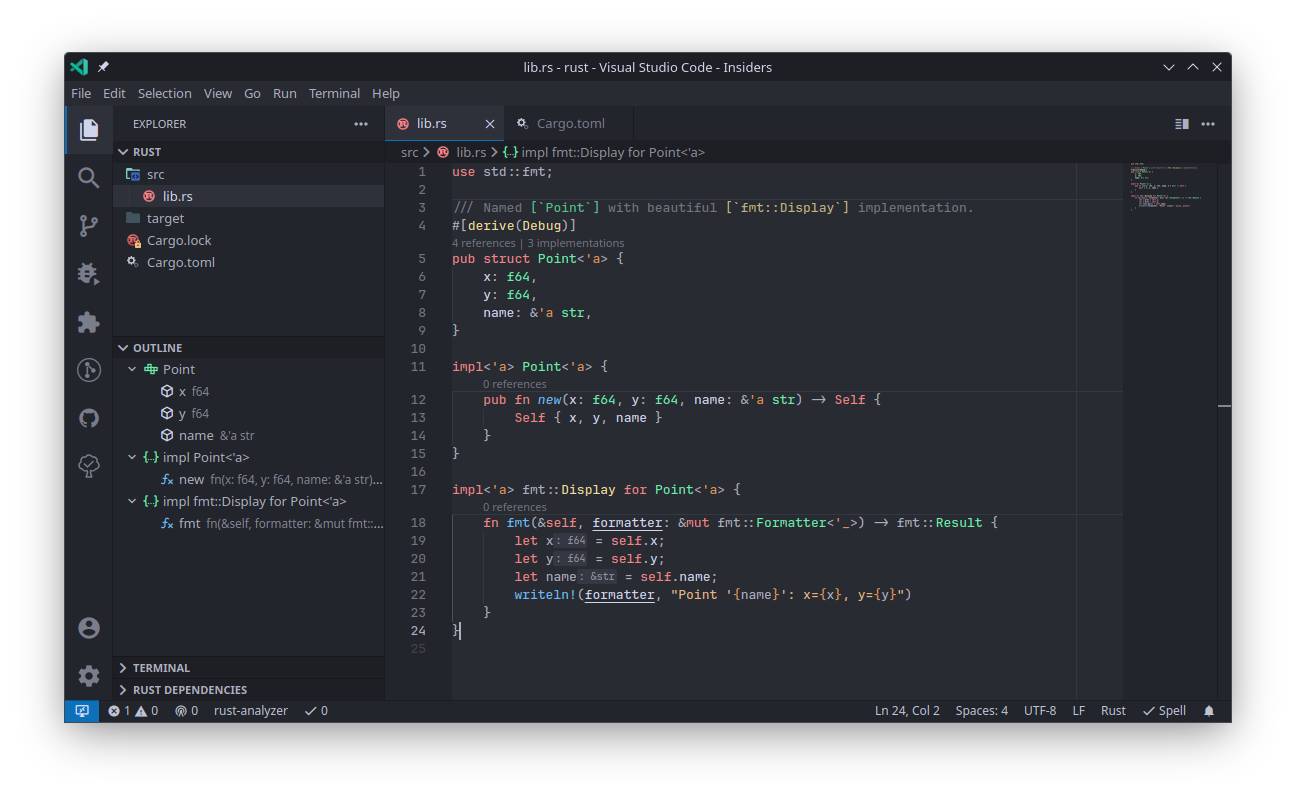
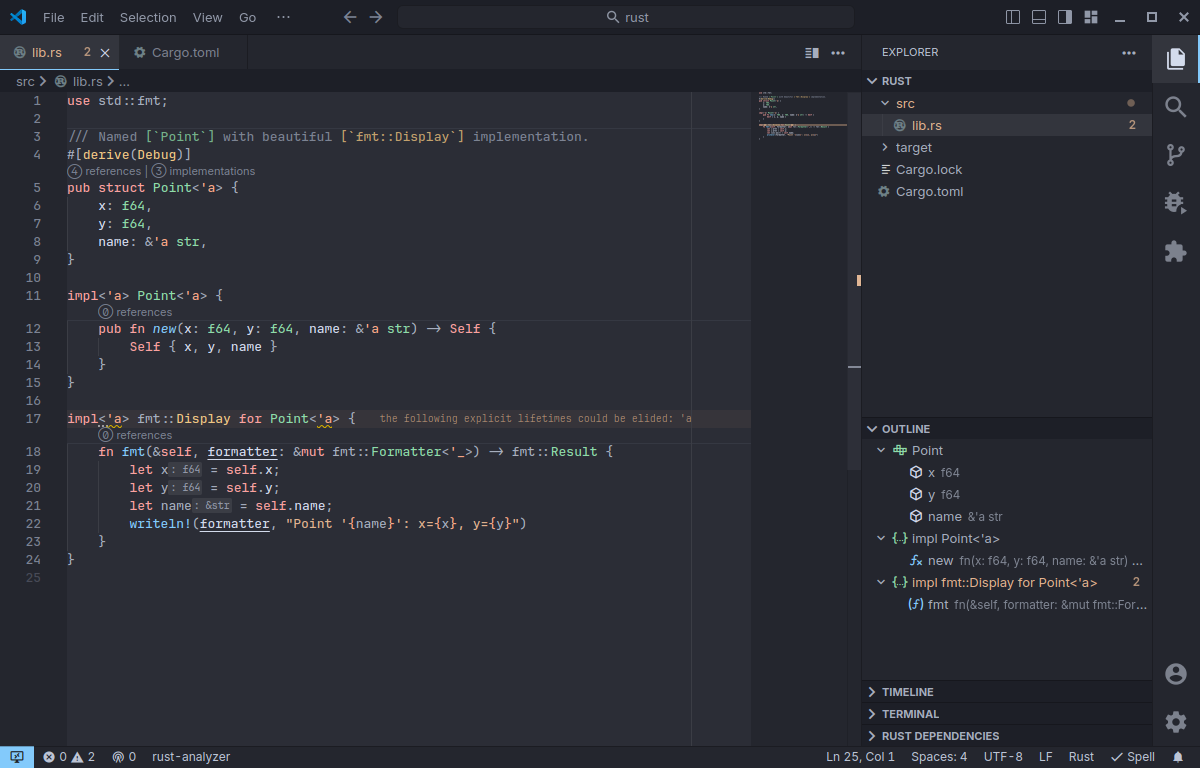
update previews

diff --git a/README.md b/README.md
@@ -6,7 +6,7 @@ Dark theme with pastel colors and a slight blue hint to the editor.
 ![](resources/example_rust.png)
 
 ### Pastel Evening Dark #2
-![](resources/example_rust_even_less_rainbow1.png)
+![](resources/example_rust_v2.png)
 
 
 ## Color scheme
@@ -72,7 +72,7 @@ The settings are given as a json so you can easily copy them to your `settings.j
         "interfaces": "lime green",
     }
     ```
-    ![](resources/example_rust_even_less_rainbow2.png)
+    ![](resources/example_rust_v2_2.png)
 
 ## Tested languages
 
